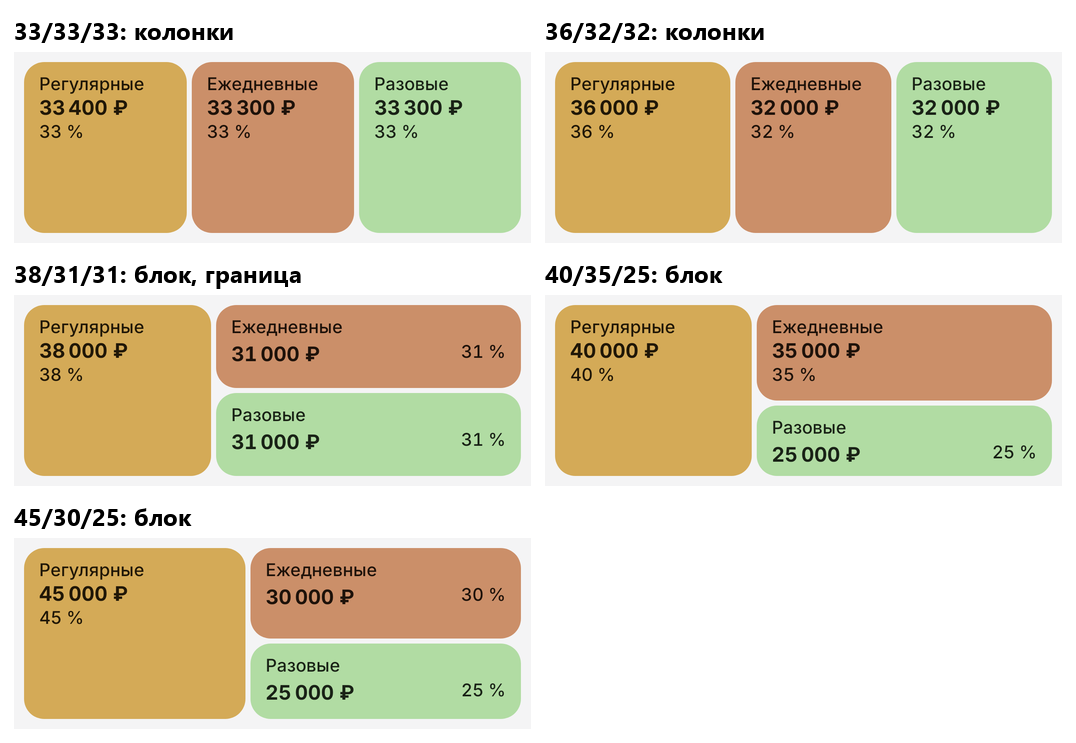
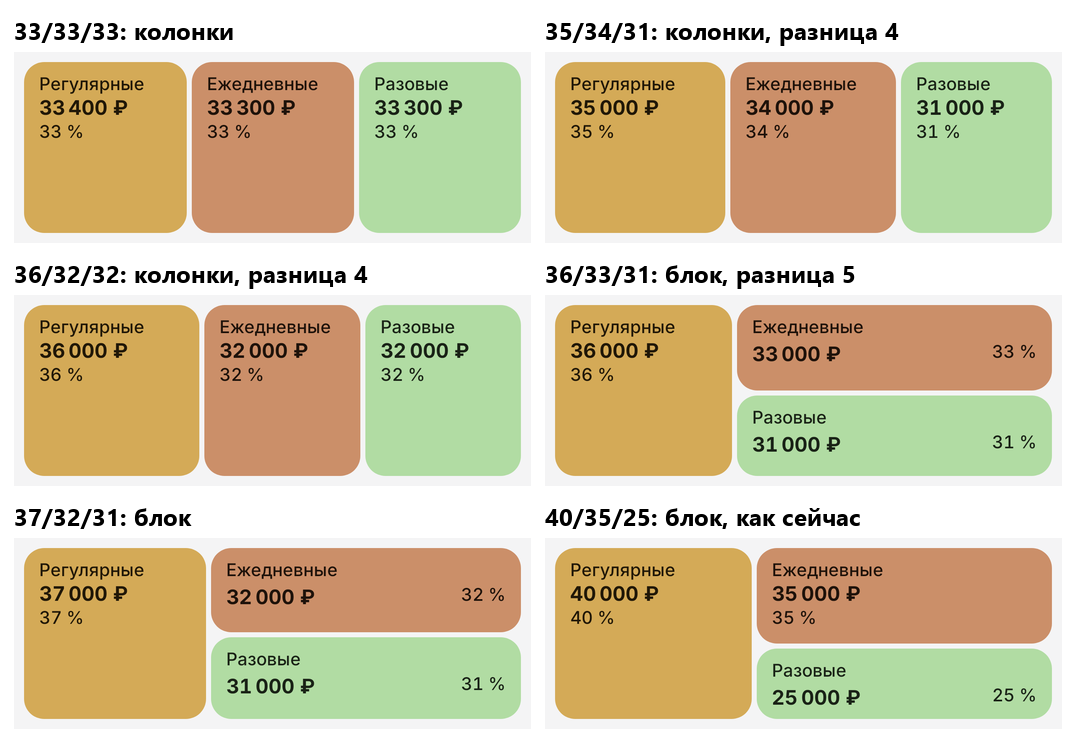
Tasks: Insights, columns only for shares that read as equal

diff --git a/docs/tasks/analytics-contours.md b/docs/tasks/analytics-contours.md
@@ -267,15 +267,16 @@
 карточки, шапка не менялась; суммы в нём без копеек срезаны вниз, поэтому 12 357 вместо 12 358. Исходник: `look/LookPreviewTest.kt.txt`.
 
 **1. Поровну** (`r9-1-shapes.png`, `r9-1-narrow.png`). «33 на 33 на 33… выглядит не как равные три части».
-Правило (кадр границы `r9-1-rule.png`): **три колонки, когда каждая плитка по своей доле шире 120 dp; иначе блок.** На экране 411 это
-самая малая доля больше 31 %: 33/33/33 и 36/32/32 — колонки, 38/31/31, 40/35/25 и 45/30/25 — блок. Минимумов в колонках нет, площадь точная.
-На границе левая плитка не меняет ширину, перестраиваются только две правые, поэтому смена периода не дёргает, запас не нужен.
+Пользователю не нравится только 33/33/33, остальные раскладки остаются. Особый случай узкий.
+Правило (кадр границы `r9-1-rule.png`): **три колонки, когда самая большая и самая малая доли различаются не больше чем на 4 пункта; иначе блок как сейчас.**
+33/33/33, 35/34/31, 36/32/32 — колонки; 36/33/31, 37/32/31 и всё дальше, 40/35/25 и 45/30/25 тоже, — блок. Ширина колонок по долям, минимумов нет, площадь точная.
+Почему 4: при такой разнице самая малая не меньше 30,7 %, это 119 dp на экране 411, а слова и миллионы умещаются от 116 dp, и глаз ещё читает доли равными. Правило не зависит от ширины экрана, но колонка уже 116 dp оставляет блок: 33/33/33 станет колонками от экрана 372 dp, на 360 и 320 останется блоком.
+На границе левая плитка почти не меняет ширину, перестраиваются только две правые, поэтому смена периода не дёргает, запас не нужен.
 
 Сначала я проверял правило «самая большая меньше половины» с минимумом колонки (ряд колонок в `r9-1-shapes.png`). Оно хуже: минимум сглаживает
 доли (45/30/25 выходит 38/31/31, 49/26/25 тоже), и на границе левая плитка прыгает с 38 % на 50 %.
 
-120 dp нужны словам: при 112 резало «Ежедневн…» и ₽ у миллионов. На экранах уже 384 dp колонки не включаются и 33/33/33 остаётся блоком
-(`r9-1-narrow.png`). Строки там влезают, но это третий вид раскладки, и читаются они списком, а не мозаикой.
+При 112 dp резало «Ежедневн…» и ₽ у миллионов (`r9-1-narrow.png`). Строки там влезают, но это третий вид раскладки, и читаются они списком, а не мозаикой.
 
 **2. Процент** (`r9-2-percent.png`, вся сетка r8). Правило: плитка от 76 dp в высоту — третьей строкой под суммой; ниже — справа на
 строке суммы, зазор не меньше 8. Если и так не влезает, процент прячем, сумму не трогаем: сумма точнее, а сокращённая сумма хуже
@@ -291,11 +292,11 @@
 - Л1, логарифм: не советую. На неделе 411 ₽ и 4 603 ₽ различаются в 11 раз, а по высоте примерно в 1,4; все дни выглядят одинаково. Неделя с арендой 37 446 ₽ и неделя 13 000 ₽ почти равны.
   Слои у логарифма врут: доля слоя в высоте уже не доля денег, и у низких столбиков мелочь занимает много места. Сумма слоёв по шкале не складывается.
 
-**Рекомендация целиком:** колонки, когда каждая шире 120 dp, процент по правилу высоты, слои от 8 dp, шкала линейная.
+**Рекомендация целиком:** колонки при разнице долей не больше 4 пунктов, процент по правилу высоты, слои от 8 dp, шкала линейная.
 
 ## Вопросы
 0. **Значок «Разбора»:** искра подходит?
-0. **Мозаика и столбики:** берём рекомендацию целиком? На экранах уже 384 dp блок остаётся или нужны строки?
+0. **Мозаика и столбики:** берём рекомендацию целиком? На экранах уже 372 dp блок остаётся или нужны строки?
 0. Второй круг, рекомендации:
    - **Мозаика: М2, блок** — площадь честная; полоса компактнее на 48 dp, но показывает 64 % как 37 %.
    - **«По дням»: строка (В2)** — столбики уходят на уровень ниже, первый экран короче нынешнего; со столбиками он
